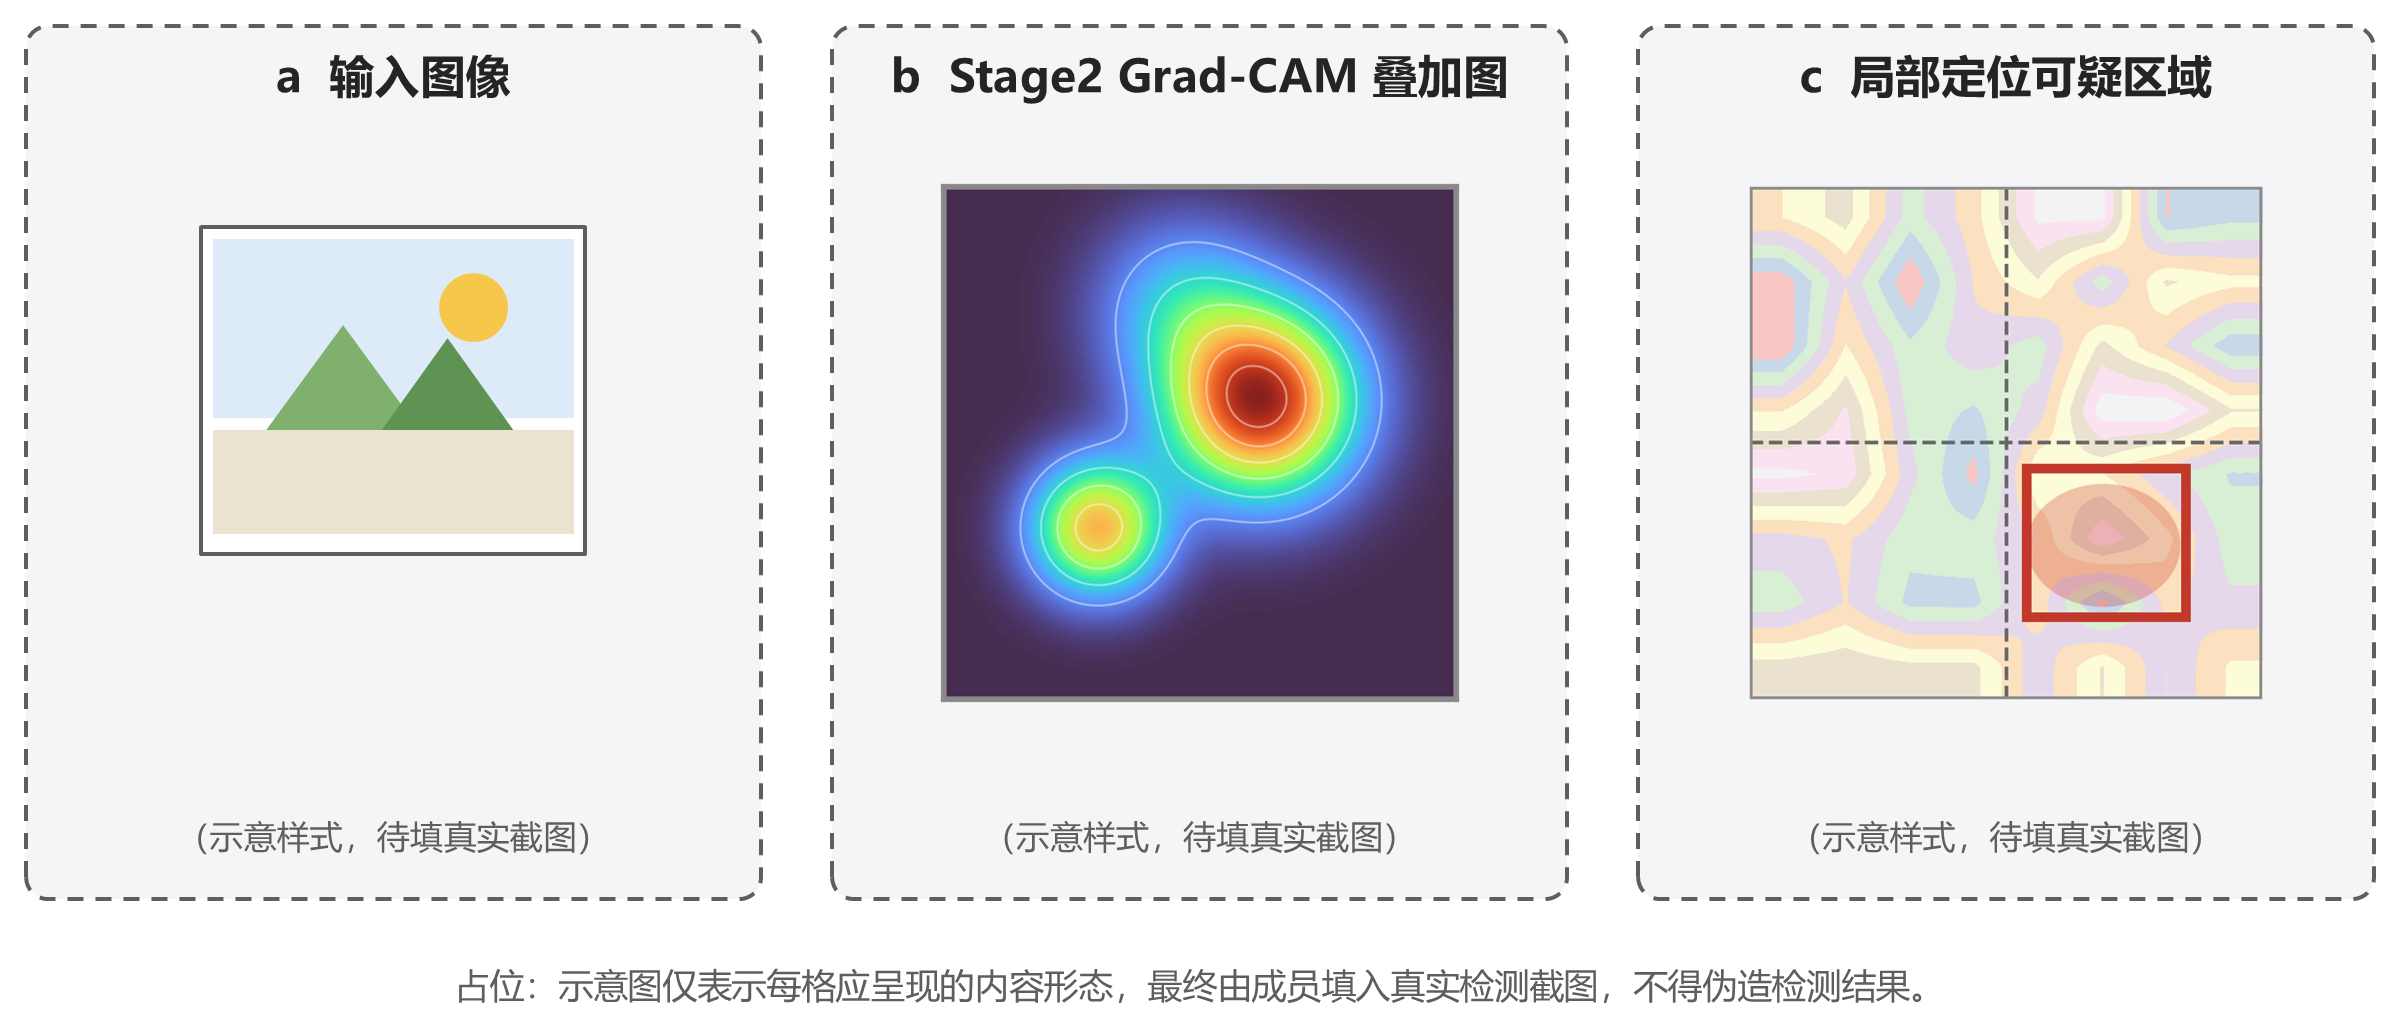
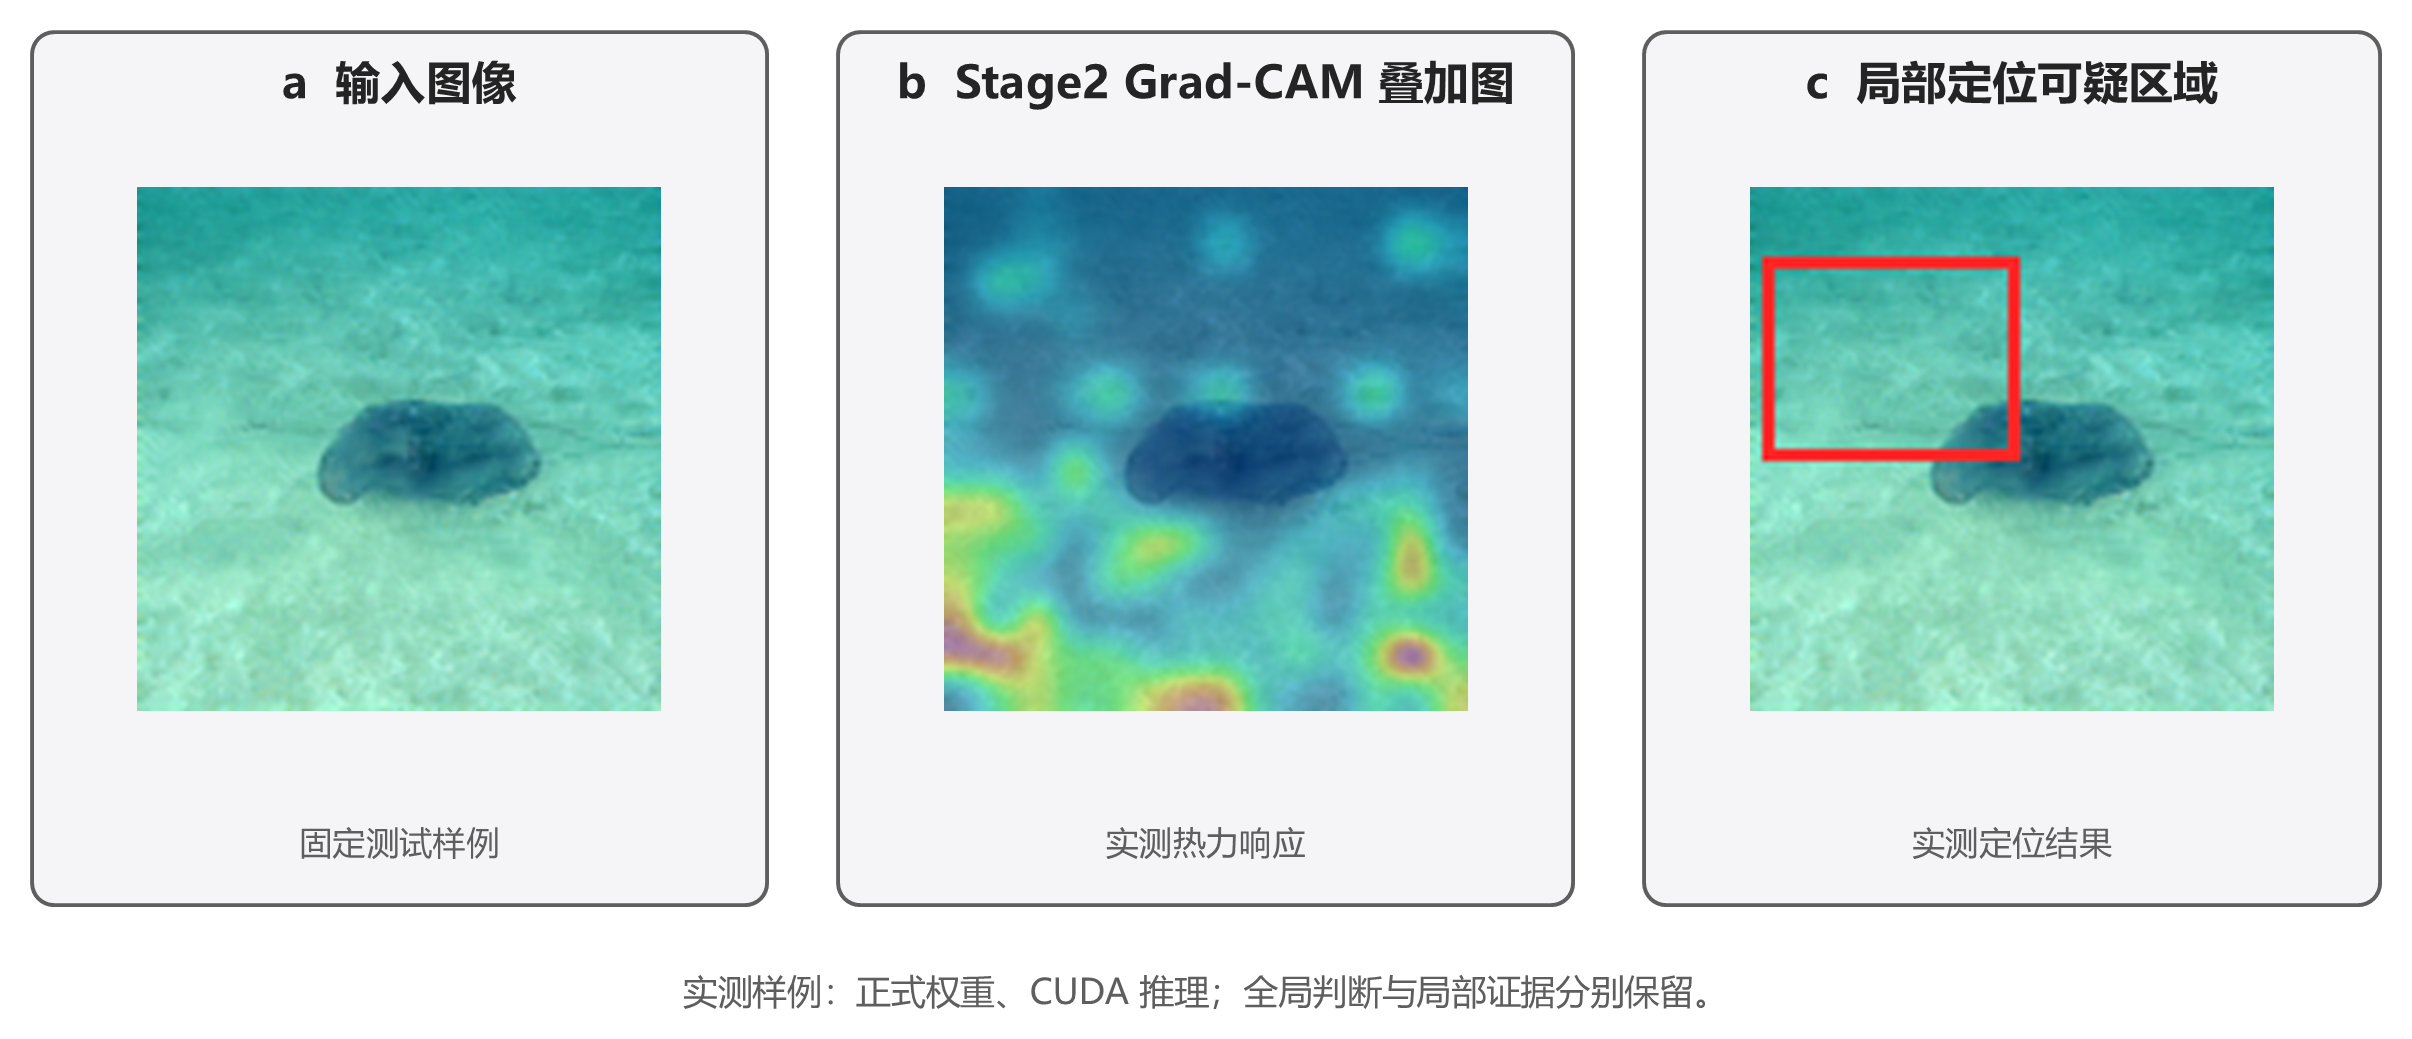
feat: replace figure 2-2 placeholder with real evidence

diff --git a/scripts/build_figures_pptx.py b/scripts/build_figures_pptx.py
@@ -365,30 +365,27 @@ set_text(textbox(s2, 7.0, 6.78, 5.9, 0.5),
 
 # ================================================================ Slide 3
 s3 = prs.slides.add_slide(BLANK)
-# 图内不设标题：Word 图下方已有自动题注（占位提示保留在各卡片与页脚）
+# 图内不设标题：Word 图下方已有自动题注。
 
-# 用原创示意图作“示例样式”淡显，提示每格应放什么（非真实检测结果）
-demo = [("a  输入图像", None), ("b  Stage2 Grad-CAM 叠加图", "gradcam.png"),
-        ("c  局部定位可疑区域", "bbox.png")]
+# 固定样例经正式权重和 CUDA 端到端运行所得，三格均为真实系统输出。
+demo = [
+    ("a  输入图像", "detection_input_real.png", "固定测试样例"),
+    ("b  Stage2 Grad-CAM 叠加图", "detection_gradcam_real.png", "实测热力响应"),
+    ("c  局部定位可疑区域", "detection_bbox_real.png", "实测定位结果"),
+]
 xs = [0.55, 4.75, 8.95]
 pw, ph, py = 3.83, 4.55, 1.55
-for x, (t, asset) in zip(xs, demo):
+for x, (t, asset, note) in zip(xs, demo):
     box = rrect(s3, x, py, pw, ph, RGBColor(0xF5, 0xF5, 0xF8),
                 line=C_MUTED, line_w=1.6, radius=0.03)
-    dash_line(box)
-    if asset:
-        p = pic_fit(s3, asset, x + 0.55, py + 0.75, pw - 1.1, ph - 1.7)
-        # 半透明，示意而非真结果
-        p.line.fill.background()
-    else:
-        icon_image_vec(s3, x + pw / 2 - 1.0, py + 1.05, 2.0, 1.7)
+    pic_fit(s3, asset, x + 0.55, py + 0.75, pw - 1.1, ph - 1.7)
     set_text(textbox(s3, x + 0.05, py + 0.10, pw - 0.10, 0.45), t, size=17,
              color=C_TITLE, bold=True, anchor=MSO_ANCHOR.TOP)
     set_text(textbox(s3, x + 0.05, py + ph - 0.55, pw - 0.10, 0.45),
-             "（示意样式，待填真实截图）", size=12.5, color=C_MUTED)
+             note, size=12.5, color=C_MUTED)
 
 set_text(textbox(s3, 0.55, 6.42, 12.23, 0.5),
-         "占位：示意图仅表示每格应呈现的内容形态，最终由成员填入真实检测截图，不得伪造检测结果。",
+         "实测样例：正式权重、CUDA 推理；全局判断与局部证据分别保留。",
          size=13, color=C_MUTED, align=PP_ALIGN.CENTER, anchor=MSO_ANCHOR.TOP)
 
 

diff --git a/DEVLOG.md b/DEVLOG.md
@@ -19,20 +19,20 @@
 - **能力头牌 = 零样本超监管识别力 + 可信平台**。开头先亮最硬的数字（超监管零样本 98.84% recall / 真图 1.4% 假阳），再讲差异化能力：证据退化时系统**自己知道并精准转人工、绝不静默改判**。
 - 诚实局限（VQDM/ADM 难例、定位精度低、阈值不可外推）**一条不删、数据不动**，但从各节"主旋律"降为"边界脚注"，不再抢在能力主张前定调。红线不变。
 
-**当前状态一句话**：能力前置改写 + 二轮去 AI 腔 + 箭头/「A+B」散文化全部落地，队长已点头——**候选稿已替换主稿 `reports/TraceGuard.md`（旧稿覆盖，候选文件已删），最终 Word 重生成为 `output/TraceGuard.docx`（2.3MB，41 原生 OMML，红线全过）**。结构图 v3 已导出并覆盖报告真正引用的三个图文件、docx 已重建并 PDF 逐页核验（见下）。下一步：字数上限裁剪。
+**当前状态一句话**：能力前置改写 + 二轮去 AI 腔 + 箭头/「A+B」散文化全部落地，队长已点头——**候选稿已替换主稿 `reports/TraceGuard.md`（旧稿覆盖，候选文件已删），最终 Word 重生成为 `output/TraceGuard.docx`（41 原生 OMML，红线全过）**。结构图 v3 已导出并覆盖报告真正引用的三个图文件；图 2-2 已用正式权重、CUDA 推理的真实输入图/Grad-CAM/定位框替换占位，docx 已重建并完成 PDF 视觉核验。下一步：字数上限裁剪。
 
 - **超监管零样本实验已完成（P2，0 失败）**：fake 11250/11250 + real 1000/1000。零样本 9 生成器 Fake Recall 均匀落在 94.0%–100.0%、总体 **98.84%**，真图假阳仅 **1.4%**（高召回未牺牲真图判别）。传播扰动 jpeg75 保持率 18.2% / jpeg50 8.6% / resize50 100.7% / screenshot 55.5%——与通用内容同构脆弱、JPEG 仍是头号破坏面。已写入报告 3.3.4（表 3.6/3.7）。诚实边界：ExImage 生成器构成比 GenImage 易（无 VQDM/ADM 难例），绝对值不与 GenImage 逐项比，方向性结论"零样本识别可跨内容域迁移"稳健。
 - 派生扰动实验（JPEG-75/50、Resize-0.5x、截图模拟）已由 `experiments/socialmedia/perturb.py` + `evaluate.py paired-derived` 跑完 GenImage 全量 8000×5（40000 预测 0 失败）。**原列张潇待办，已由集成侧完成，张潇无需重做。**
 - resize50 反常升高**已定性**（P3 真图假阳检查，output/perturb_real_fp/）：1000 张真图 FP 1.50%→17.50%（约 11.7x），160 例 real→fake 单向翻转、0 例反向，证明是重采样偏置、**非鲁棒性证据**。结论写入报告 **3.3.3 / 表 3.4 †脚注 / 表 3.5**（注意：章节号已随重构变化，不再是旧稿的 3.3.2）。
 - 候选重构稿已完成并**已替换主稿**：产品化清洗（0 开发痕迹，SHA/路径/版本串清零）、resize50 加 †脚注、表号重排为连续的 3.1–3.9、41 个原生 OMML 公式。`reports/TraceGuard.md` 现即最新重构稿，`output/TraceGuard.docx` 为最终 Word。
 - **结构图已重做 v3（队长 07-15 两轮反馈已落实）**：新增 `scripts/gen_figure_assets.py` 用 matplotlib 渲染**全原创**示意图素材（`docs/figures/system/assets/`：gradcam 真热力图 / backbone 骨干架构图含 2304→256 瓶颈 / mkmmd 域对齐散点 / bbox 篡改定位 / gauge 风险量表 / bars 五维柱状 / 7 个 Web 流程线性图标），`build_figures_pptx.py` v3 嵌入这些图片。字号再放大（标题 34 / 容器标题 16–17 / 标签 13–15）；三张图都补上图像；Web 流程每步加图标。COM 渲染核验无重叠、红线全过。
-  - **诚信红线**：拒绝了"抠他人论文示意图补充"的做法——参赛图必须原创，改用程序化原创素材达到"图元与内容适配"。图2-2 三格已放**示意样式**（清楚标注"示意样式，待填真实截图"、页脚声明不得伪造），仍需队长在 PPT 填**真实检测截图**再导出 PNG 替换报告 SVG 引用。
+  - **诚信红线已收口**：拒绝了"抠他人论文示意图补充"的做法。图 2-2 已使用固定 BigGAN 测试样例，经正式权重和 CUDA 端到端推理生成真实输入图、Stage2 Grad-CAM 叠加图和局部定位框；PPT 第 3 页、`detection_example.png` 与报告引用已同步，不再包含示意占位。
   - **07-15 补修（此前疏漏）**：v3 图先前只在独立 pptx 里，**从未导入报告实际引用的三个图文件**，docx 仍嵌 07-14 旧图（队长打开看到"图都没变"即此因）。已用 PowerPoint COM 将 slide1/2/3 导出 2560×1440 覆盖 `system_architecture.png / web_workflow.png / detection_example.png`，PIL 裁去外围留白，重建 docx，转 PDF 逐页核验三图到位。
   - **图内标题全删（队长要求）**：报告图不需自带标题，Word 图下方已有自动题注；`build_figures_pptx.py` 三处 `title_bar` 调用已移除，导出后裁剪。docx 现为 33 页。
 **三人当前关注点（★ 已按 07-15 叙事转向重排优先级，可执行清单见对应 GitHub Issue）**：
 - 张潇 → **#14**：⬆️**升级为头号**——跨域「提升 17%+」消融原始表（这是**跨域泛化能力证据**，正好支撑新叙事的能力头牌）。⬇️**降级为选做**——四套测试集传播前原图（它产出的是"更多退化证据"，恰是本轮要弱化的方向，不进封版必交清单，有余力再补）。`REPRODUCIBILITY.md` 复现链照旧要补。
 - 贺杰 → **#15**：⬆️**升级为头号**——三类案例（稳定/衰减/冲突）做成**干净、低刺激的案例图 + 说明**，直观**演示"可信路由"在工作**（这是"可信平台"能力头牌的最佳证据，风险低）。⬇️**降级为选做**——多独立来源阈值校准（结果不确定且封版逼近，有余力再做）。真实篡改案例标注依据照旧要补。
-- 朱羿帅 → **#16**：能力前置改写摘要/Ch1/Ch4 并替换主稿；维护 DEVLOG 与分工；超监管 3.3.4 已并入；07-20 封版匿名化复核。
+- 朱羿帅 → **#16**：能力前置改写摘要/Ch1/Ch4 并替换主稿；图 2-2 真实检测证据已收口；维护 DEVLOG 与分工；超监管 3.3.4 已并入；07-20 封版匿名化复核。
 
 封版 2026-07-20，提交 2026-08-02。红线：报告/答辩禁现「实验室/导师/同组工作」等身份措辞；报告匿名（无学校/院系/指导教师，封面邮箱中性）；ExImage 与 ExDA 权重/代码不进 Git、不进提交包、不接入系统；超监管只谈"评测自研检测器"，不声称生成/训练/优化；涉敏图只低刺激远景，绝不打开/显示/导出超监管图像。
 

diff --git a/reports/TraceGuard.md b/reports/TraceGuard.md
@@ -171,7 +171,7 @@ Grad\-CAM 输出的热力图首先经过高斯平滑（σ=3\.0），消除 14×1
 
 最终输出两种图像格式：原图与热力图半透明叠加的 `overlay`（α=0\.5，供前端渲染和 PDF 报告），以及纯热力掩膜 `mask`（供取证分析）。前者辅助快速定性判断，后者保留精确的热力分数分布供定量分析。
 
-![检测结果与可解释证据示例](../docs/figures/system/detection_example.svg)
+![检测结果与可解释证据示例](../docs/figures/system/detection_example.png)
 
 图 2\-2 · 检测结果与可解释证据示例。a，输入图像；b，Stage2 Grad\-CAM 叠加图；c，局部定位分支给出的可疑区域。热力响应与红框来自不同解释路径，两者仅仅用于指出模型关注和局部异常位置，不等同于像素级篡改真值。
 